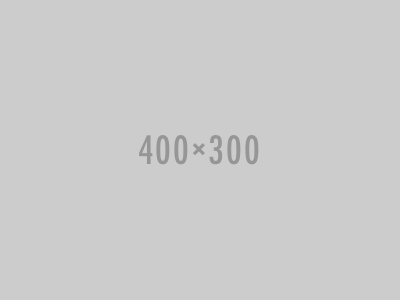
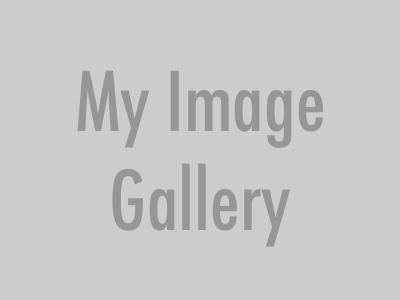
实现切换文字功能，添加样式

Changed region(s): [[0.18, 0.24, 0.81, 0.84]]

diff --git a/scripts/showPic.js b/scripts/showPic.js
@@ -1,5 +1,21 @@
+window.onload = countBodyChildren;
+
+// 展示图片
+// @whichPic 超链接节点
 function showPic(whichPic) {
+	// 切换图片
 	var source = whichPic.getAttribute("href");
 	var placeholder = document.getElementById("placeholder");
 	placeholder.setAttribute("src", source);
+
+	// 切换文字
+	var text = whichPic.getAttribute("title");
+	var description = document.getElementById("description");
+	description.firstChild.nodeValue = text;
+}
+
+// 计算body中的子节点
+function countBodyChildren() {
+	var body_element = document.getElementsByTagName("body")[0];
+	console.log(body_element.childNodes.length);
 }

diff --git a/gallery.html b/gallery.html
@@ -3,6 +3,7 @@
 <head>
 	<meta charset="UTF-8">
 	<title>Image Gallery</title>
+	<link rel="stylesheet" href="styles/layout.css" />
 </head>
 <body>
 	<header>
@@ -34,6 +35,7 @@
 	</nav>
 	<section class="placeholder">
 		<img id="placeholder" src="images/placeholder.png" alt="my image gallery" />
+		<p id="description">Choose an image.</p>
 	</section>
 
 	<script type="text/javascript" src="scripts/showPic.js"></script>

diff --git a/styles/layout.css b/styles/layout.css
@@ -1,0 +1,28 @@
+body {
+	font-family: "Hevetica", "Arial", serif;
+	color: #333;
+	background-color: #00c3cc;
+	margin: 1em 10%;
+}
+h1 {
+	color: #333;
+	background-color: transparent;
+}
+ul {
+	padding: 0;
+}
+li {
+	float: left;
+	padding: 1em;
+	list-style: none;
+}
+a {
+	color：#c60;
+	background-color: transparent;
+	font-weight: bold;
+	text-decoration: none;
+}
+img {
+	display: block;
+	clear: both;
+}
